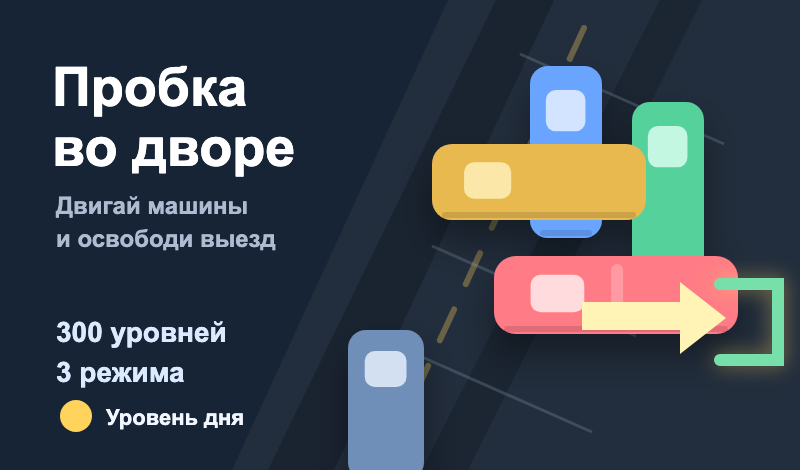
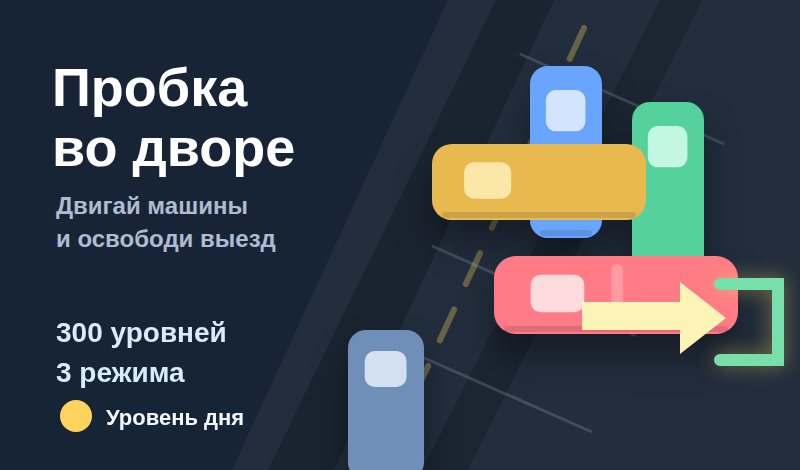
Модерация Яндекса: перегенерированы промо-ассеты (иконка/обложка/скриншоты)
- Скриншоты (5.1.1 / 5.1.1.2 / 8.2.3): убрана промо-обёртка capture=promo-gameplay,
  из-за которой поле занимало <45% кадра с тёмной пустотой и плавающим UI.
  Теперь 6 портретных полнокадровых скриншотов реального геймплея 1290x2640,
  100% игрового UI на русском, без внешних элементов, разные дворы/режимы.
- Иконка (8.3.3): сгенерированная icon-512.png — квадрат 512x512, RGB без альфы,
  углы залиты до краёв (никаких скруглений/рамок). Залить именно её.
- Обложка (5.6): cover-800x470.png — иллюстрация (заголовок, стилизованные
  машины, выезд), НЕ скриншот. Залить именно её.
- Генератор: chromePath через PROBKA_CHROME/PROBKA_CHROME_FLAGS (Linux/CI),
  force-device-scale-factor для чётких скриншотов, README с инструкцией.

Старые desktop*/mobile* промо-скриншоты удалены.

diff --git a/probka-game/tools/generate-yandex-assets.js b/probka-game/tools/generate-yandex-assets.js
@@ -6,7 +6,11 @@ const { spawnSync } = require("child_process");
 
 const workspace = path.resolve(__dirname, "../..");
 const outDir = path.join(workspace, "releases", "yandex-assets");
-const chromePath = "/Applications/Google Chrome.app/Contents/MacOS/Google Chrome";
+const chromePath =
+  process.env.PROBKA_CHROME ||
+  process.env.PROBKA_SMOKE_CHROME ||
+  "/Applications/Google Chrome.app/Contents/MacOS/Google Chrome";
+const chromeExtraFlags = (process.env.PROBKA_CHROME_FLAGS || "").split(/\s+/).filter(Boolean);
 const baseUrl = process.argv[2] || "http://127.0.0.1:5174";
 
 const pages = [
@@ -24,50 +28,21 @@ const pages = [
   }
 ];
 
+// Скриншоты — полнокадровый портретный геймплей без промо-обёртки:
+// 100% игрового UI, русский язык, без внешних элементов (требования 5.1.1 / 5.1.1.2 / 8.2.3).
+// CSS-размер телефона + высокий DPR дают чёткое изображение 1290x2640.
+const SHOT_CSS_WIDTH = 430;
+const SHOT_CSS_HEIGHT = 880;
+const SHOT_SCALE = 3;
+const shotUrl = (params) => `${baseUrl}/probka-game/index.html?showcase=1&skin=classic_red&${params}`;
 const screenshots = [
-  {
-    name: "desktop1",
-    width: 1280,
-    height: 720,
-    url: `${baseUrl}/probka-game/?showcase=1&mode=moves&level=1&yard=quiet_yard&skin=classic_red&capture=promo-gameplay&asset=desktop-quiet-gameplay`
-  },
-  {
-    name: "desktop2",
-    width: 1280,
-    height: 720,
-    url: `${baseUrl}/probka-game/?showcase=1&mode=moves&level=49&yard=night_yard&skin=classic_red&capture=promo-gameplay&asset=desktop-night-gameplay`
-  },
-  {
-    name: "desktop3",
-    width: 1280,
-    height: 720,
-    url: `${baseUrl}/probka-game/?showcase=1&mode=timed&level=85&yard=winter_yard&skin=classic_red&capture=promo-gameplay&asset=desktop-winter-gameplay`
-  },
-  {
-    name: "desktop4",
-    width: 1280,
-    height: 720,
-    url: `${baseUrl}/probka-game/?showcase=1&mode=free&level=35&yard=forest_yard&skin=classic_red&capture=promo-gameplay&asset=desktop-forest-gameplay`
-  },
-  {
-    name: "desktop5",
-    width: 1280,
-    height: 720,
-    url: `${baseUrl}/probka-game/?showcase=1&mode=moves&level=72&yard=business_center&skin=classic_red&capture=promo-gameplay&asset=desktop-business-gameplay`
-  },
-  {
-    name: "mobile1",
-    width: 1280,
-    height: 720,
-    url: `${baseUrl}/probka-game/?showcase=1&mode=moves&level=12&yard=quiet_yard&skin=classic_red&capture=promo-gameplay&asset=mobile-quiet-gameplay`
-  },
-  {
-    name: "mobile2",
-    width: 1280,
-    height: 720,
-    url: `${baseUrl}/probka-game/?showcase=1&mode=timed&level=55&yard=rainy_yard&skin=classic_red&capture=promo-gameplay&asset=mobile-rainy-gameplay`
-  }
-];
+  { name: "screen1-quiet", url: shotUrl("mode=moves&level=3&yard=quiet_yard") },
+  { name: "screen2-night", url: shotUrl("mode=moves&level=24&yard=night_yard") },
+  { name: "screen3-winter", url: shotUrl("mode=timed&level=41&yard=winter_yard") },
+  { name: "screen4-forest", url: shotUrl("mode=free&level=15&yard=forest_yard") },
+  { name: "screen5-neon", url: shotUrl("mode=moves&level=58&yard=neon_yard") },
+  { name: "screen6-business", url: shotUrl("mode=timed&level=72&yard=business_center") }
+].map((shot) => ({ ...shot, width: SHOT_CSS_WIDTH, height: SHOT_CSS_HEIGHT, scale: SHOT_SCALE }));
 
 main();
 
@@ -84,7 +59,7 @@ function main() {
   });
 
   screenshots.forEach((shot) => {
-    capture(shot.url, path.join(outDir, `${shot.name}.png`), shot.width, shot.height, 2200);
+    capture(shot.url, path.join(outDir, `${shot.name}.png`), shot.width, shot.height, 2600, shot.scale || 1);
   });
 
   fs.writeFileSync(path.join(outDir, "README.md"), makeReadme());
@@ -93,14 +68,15 @@ function main() {
 
 function cleanOldScreenshotFiles() {
   fs.readdirSync(outDir).forEach((file) => {
-    if (/^(screenshot-|desktop\d+|mobile\d+).*\.png$/i.test(file)) {
+    if (/^(screenshot-|desktop\d+|mobile\d+|screen\d+).*\.png$/i.test(file)) {
       fs.unlinkSync(path.join(outDir, file));
     }
   });
 }
 
-function capture(url, outputPath, width, height, virtualTime = 600) {
+function capture(url, outputPath, width, height, virtualTime = 600, scale = 1) {
   const result = spawnSync(chromePath, [
+    ...chromeExtraFlags,
     "--headless=new",
     "--disable-gpu",
     "--disable-background-networking",
@@ -110,10 +86,11 @@ function capture(url, outputPath, width, height, virtualTime = 600) {
     "--no-first-run",
     "--no-default-browser-check",
     `--window-size=${width},${height}`,
+    `--force-device-scale-factor=${scale}`,
     `--screenshot=${outputPath}`,
     `--virtual-time-budget=${virtualTime}`,
     url
-  ], { stdio: "inherit", timeout: 20000 });
+  ], { stdio: "inherit", timeout: 30000 });
   if (result.error) throw result.error;
   if (result.status !== 0) throw new Error(`Chrome screenshot failed for ${url}`);
 }
@@ -270,18 +247,22 @@ function car(x, y, width, height, fill, windowFill, radius, target = false) {
 }
 
 function makeReadme() {
-  return `# Yandex Games assets
+  return `# Ассеты для Яндекс Игр
 
-- icon-512.png: icon upload, 512x512 PNG
-- cover-800x470.png: illustrated cover upload, 800x470 PNG
-- desktop1.png: desktop gameplay screenshot, quiet yard
-- desktop2.png: desktop gameplay screenshot, night yard
-- desktop3.png: desktop gameplay screenshot, winter yard
-- desktop4.png: desktop gameplay screenshot, forest yard
-- desktop5.png: desktop gameplay screenshot, business center yard
-- mobile1.png: mobile gameplay screenshot, 16:9
-- mobile2.png: mobile gameplay screenshot, 16:9
+Все материалы соответствуют требованиям платформы (раздел 5 и 8):
+без скруглённых углов/рамок, обложка — иллюстрация (не скриншот),
+скриншоты — полнокадровый реальный геймплей на русском без внешних элементов.
 
-Videos are optional for the first moderation pass.
+- icon-512.png — иконка, 512x512 PNG, квадрат без скруглений и рамок (8.3.3).
+- cover-800x470.png — обложка, 800x470 PNG, ИЛЛЮСТРАЦИЯ (не скриншот, 5.6).
+- screen1-quiet.png … screen6-business.png — скриншоты геймплея, портрет
+  1290x2640, 100% игрового UI на русском, разные дворы и режимы (5.1.1 / 8.2.3).
+
+Пересборка (Linux):
+  PROBKA_CHROME="$(which google-chrome)" PROBKA_CHROME_FLAGS="--no-sandbox --disable-dev-shm-usage" \\
+    node probka-game/tools/generate-yandex-assets.js http://127.0.0.1:<порт>
+  (сервер должен отдавать корень воркспейса, чтобы путь /probka-game/ работал)
+
+Видео для первой модерации не обязательно.
 `;
 }

diff --git a/releases/yandex-assets/README.md b/releases/yandex-assets/README.md
@@ -1,13 +1,17 @@
-# Yandex Games assets
+# Ассеты для Яндекс Игр
 
-- icon-512.png: icon upload, 512x512 PNG
-- cover-800x470.png: illustrated cover upload, 800x470 PNG
-- desktop1.png: desktop gameplay screenshot, quiet yard
-- desktop2.png: desktop gameplay screenshot, night yard
-- desktop3.png: desktop gameplay screenshot, winter yard
-- desktop4.png: desktop gameplay screenshot, forest yard
-- desktop5.png: desktop gameplay screenshot, business center yard
-- mobile1.png: mobile gameplay screenshot, 16:9
-- mobile2.png: mobile gameplay screenshot, 16:9
+Все материалы соответствуют требованиям платформы (раздел 5 и 8):
+без скруглённых углов/рамок, обложка — иллюстрация (не скриншот),
+скриншоты — полнокадровый реальный геймплей на русском без внешних элементов.
 
-Videos are optional for the first moderation pass.
+- icon-512.png — иконка, 512x512 PNG, квадрат без скруглений и рамок (8.3.3).
+- cover-800x470.png — обложка, 800x470 PNG, ИЛЛЮСТРАЦИЯ (не скриншот, 5.6).
+- screen1-quiet.png … screen6-business.png — скриншоты геймплея, портрет
+  1290x2640, 100% игрового UI на русском, разные дворы и режимы (5.1.1 / 8.2.3).
+
+Пересборка (Linux):
+  PROBKA_CHROME="$(which google-chrome)" PROBKA_CHROME_FLAGS="--no-sandbox --disable-dev-shm-usage" \
+    node probka-game/tools/generate-yandex-assets.js http://127.0.0.1:<порт>
+  (сервер должен отдавать корень воркспейса, чтобы путь /probka-game/ работал)
+
+Видео для первой модерации не обязательно.
